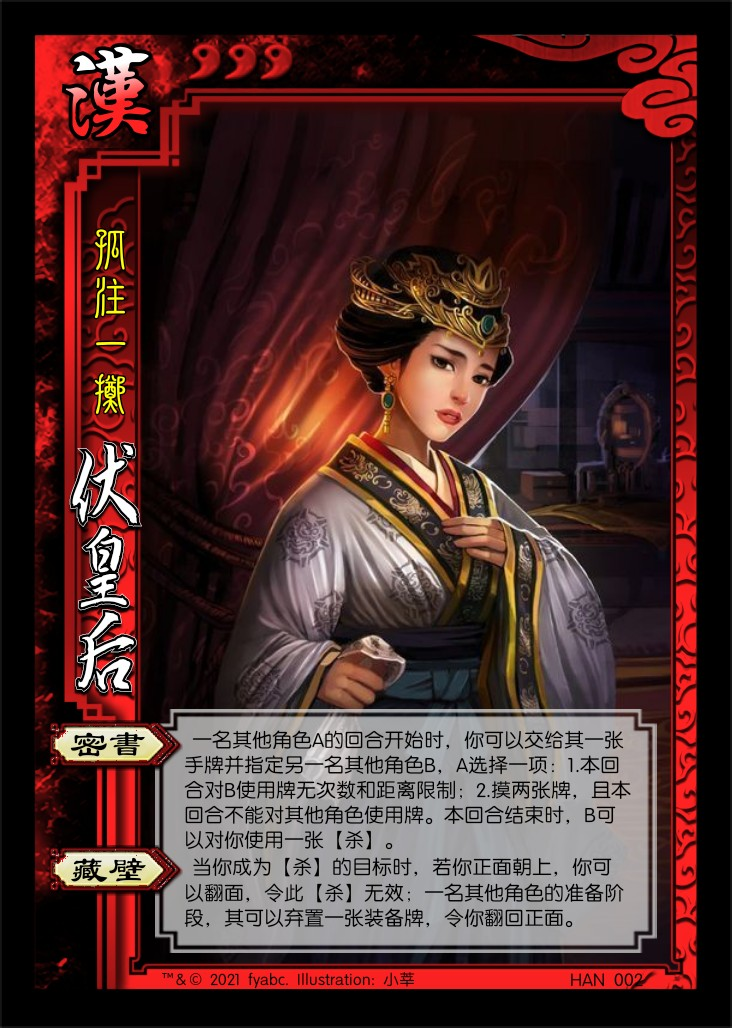
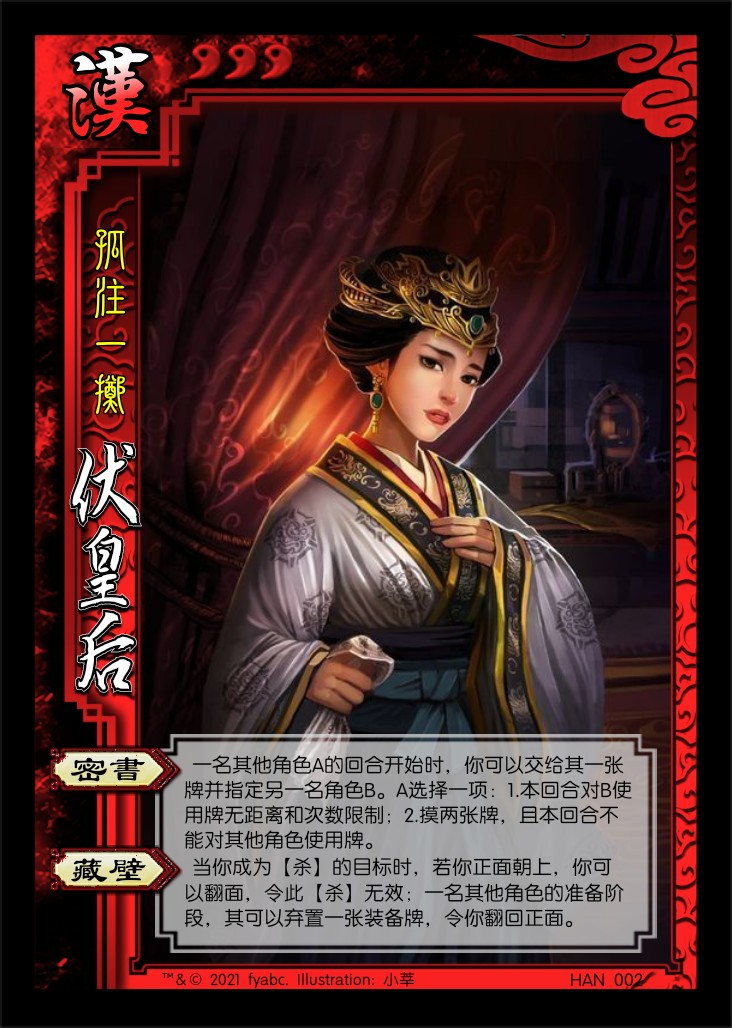
Fix in extensions.

diff --git a/SanGuoSha/SGS-RebirthProject/main.md b/SanGuoSha/SGS-RebirthProject/main.md
@@ -61,21 +61,65 @@
 
 1. 黄巾之乱（184 - 185）
    1. 武将：张宝、张梁、张燕、黄巾雷使、刘宏、张让、皇甫嵩、卢植
-   2. SP武将：刘宏、刘备
-   3. 神武将：张角
+   2. 已出现武将：暂无
+   3. SP武将：刘宏2、刘备2
+   4. 神武将：张角
 2. 董卓入京（189 - 192）
    1. 武将：董卓、李儒、何进、何太后、刘辩、唐姬、王允、蔡邕
-   2. SP武将：貂蝉
-   3. 神武将：貂蝉
+   2. 已出现武将：刘协
+   3. SP武将：貂蝉2
+   4. 神武将：貂蝉
 3. 诸侯讨董（190 - 191）
-   1. 武将：华雄、徐荣、李肃、胡轸、孔融、韩馥、鲍信、桥瑁
-   2. SP武将：袁绍、曹操、孙坚、袁术
-   3. 神武将：吕布
+   1. 武将：华雄、徐荣、李肃、牛辅、孔融、韩馥、鲍信、桥瑁
+   2. 已出现武将：暂无
+   3. SP武将：袁绍2、曹操2、孙坚2、袁术2
+   4. 神武将：吕布
 4. 文和乱武（192 - 195）
-   1. 武将：李傕、郭汜、樊稠、张济、马腾、韩遂、杨奉、董承
-   2. SP武将：刘协
-   3. 神武将：贾诩
-5. TODO
+   1. 武将：李傕、郭汜、樊稠、张济、朱儁、杨彪、杨奉、董承
+   2. 已出现武将：暂无
+   3. SP武将：刘协2
+   4. 神武将：贾诩
+5. 徐州风云（194 - 195）
+6. 江东定基（194 - 200）
+7. 迎驾许都（196）
+8. 宛城之战（197）
+9. 白门楼（198）
+10. 官渡之战（199 - 200）
+11. 统一北方（202 - 207）
+12. 荆州之战（208）
+    1. 武将：TODO
+    2. 已出现武将：暂无
+    3. SP武将：暂无
+    4. 神武将：张飞、赵云
+13. 赤壁之战（208）
+14. 凉州之战（211 - 212）
+15. 逍遥津之战（215）
+16. 汉中之战（215 - 219）
+17. 襄樊之战（219）
+18. 代汉自立（220）
+19. 夷陵之战（221 - 222）
+20. 七擒孟获（225）
+21. 六出祁山（228 - 234）
+22. 石亭之战（228）
+23. 南鲁党争（242 - 250）
+24. 高平陵之变（249）
+25. 淮南三叛（251 - 258）
+26. 玉碎九重（260）
+27. 二士争功（263）
+    1. 武将：邓艾、钟会、诸葛瞻、卫瓘、TODO
+    2. 已出现武将：刘禅、姜维
+    3. SP武将：暂无
+    4. 神武将：暂无
+28. 晋代魏祚（265）
+    1. 武将：司马炎、TODO
+    2. 已出现武将：暂无
+    3. SP武将：暂无
+    4. 神武将：暂无
+29. 重归一统（265 - 280）
+    1. 武将：TODO
+    2. 已出现武将：暂无
+    3. SP武将：暂无
+    4. 神武将：暂无
 
 ## 次要事件扩展包计划
 

diff --git a/SanGuoSha/SGS-RebirthProject/ext3.md b/SanGuoSha/SGS-RebirthProject/ext3.md
@@ -52,7 +52,7 @@
    当一名其他角色于其回合外获得牌时，对其使用。目标角色从获得的牌中选择一张交给你。
 4. 【摧锋夺锐】：锦囊，普通  
    出牌阶段，对一名装备区中牌数比你多的角色使用。将其装备区中的一张牌移动到你的装备区（替换原装备）。
- 
+
    > 补充标准包中减少的拆装备手段。
 5. 【势如破竹】：锦囊，普通  
    出牌阶段，对你的下家使用。其选择一项：受到你造成的1点伤害；或打出一张【闪】，并令其下家再次进行此选择。
@@ -85,17 +85,22 @@
    1. 【搦战】：准备阶段，你可以视为使用一张【决斗】。该【决斗】的结算中，你每次需打出两张【杀】。
    2. 【耀武】：当你杀死一名角色后，你可以回复1点体力或摸一张牌。
 
-2. ![韩馥](./assets/images/heroes/韩馥.jpg) 韩馥 男 群 3体力
-3. ![孔融](./assets/images/heroes/孔融.jpg) 孔融 男 群 3体力
+2. ![徐荣](./assets/images/heroes/徐荣.jpg) 徐荣 男 群 4体力
+3. ![李肃](./assets/images/heroes/李肃.jpg) 李肃 男 群 4体力
+4. ![牛辅](./assets/images/heroes/牛辅.jpg) 牛辅 男 群 4体力
+5. ![孔融](./assets/images/heroes/孔融.jpg) 孔融 男 汉 3体力
    1. 【礼让】：出牌阶段，你可以将一张红桃手牌当援军牌使用；当你于出牌阶段发动第一次支援后，可以摸一张牌。
    2. 【名士】：TODO
+6. ![韩馥](./assets/images/heroes/韩馥.jpg) 韩馥 男 汉 3体力
+7. ![鲍信](./assets/images/heroes/鲍信.jpg) 鲍信 男 汉 3体力
+8. ![桥瑁](./assets/images/heroes/桥瑁.jpg) 桥瑁 男 汉 3体力
 
 ----
 
-1. ![SP袁绍](./assets/images/heroes/SP袁绍.jpg) SP袁绍 男 群 4体力 称号：众望所归
+1. ![SP袁绍](./assets/images/heroes/SP袁绍.jpg) SP袁绍 男 汉 4体力 称号：众望所归
    1. 【会盟】：出牌阶段限一次，你可以令每名其他角色依次交给你一张牌，然后你依次交给这些角色一张牌。
 
-2. ![SP孙坚](./assets/images/heroes/SP孙坚.jpg) SP孙坚 男 群 4体力 称号：江东的猛虎
+2. ![SP孙坚](./assets/images/heroes/SP孙坚.jpg) SP孙坚 男 汉 4体力 称号：江东的猛虎
    1. 【某某】：出牌阶段限一次，你可以将一张黑色手牌当【摧锋夺锐】使用。若你以此法获得了宝物牌，你回复1点体力。
 
 ----

diff --git a/SanGuoSha/SGS-RebirthProject/standard.md b/SanGuoSha/SGS-RebirthProject/standard.md
@@ -310,11 +310,11 @@
    > 所有汉室宗亲（包括前期扩展包中的SP刘备）都拥有【宗室】技能。  
    > TODO：技能描述稍长，如何简化？
 2. ![伏皇后](./assets/images/heroes/伏皇后.jpg) 伏皇后 女 汉 3体力 称号：孤注一掷
-   1. 【密书】：一名其他角色A的回合开始时，你可以交给其一张手牌并指定另一名其他角色B，A选择一项：1.本回合对B使用牌无次数和距离限制；2.摸两张牌，且本回合不能对其他角色使用牌。本回合结束时，B可以对你使用一张【杀】。
+   1. 【密书】：一名其他角色A的回合开始时，你可以交给其一张手牌并指定另一名角色B，A选择一项：1.本回合对B使用牌无次数和距离限制；2.摸两张牌，且本回合不能对其他角色使用牌。
    2. 【藏壁】：当你成为【杀】的目标时，若你正面朝上，你可以翻面，令此【杀】无效；一名其他角色的准备阶段，其可以弃置一张装备牌，令你翻回正面。
 
    > 设计灵感: <https://link.zhihu.com/?target=https%3A//tieba.baidu.com/p/6546955203>.  
-   > 【密书】反映了伏皇后向伏完求援的典故，伏完的反应分为参与密谋和自保两种，最后的负面效果表示计划泄密，曹操进行报复，也与【藏壁】联动。  
+   > 【密书】反映了伏皇后向伏完求援的典故，伏完的反应分为参与密谋和自保两种。  
    > 【藏壁】反映了伏皇后被抓时藏入壁中，向献帝求援而不得的典故。汉献帝往往没有装备牌 让伏皇后翻回正面，表现了汉献帝的爱莫能助。  
    > TODO：技能强度需要测试。  
-   > TODO：技能过于复杂，如何简化？
+   > TODO：技能进行了一次简化，可以再简化吗？

diff --git a/SanGuoSha/SGS-RebirthProject/ext1.md b/SanGuoSha/SGS-RebirthProject/ext1.md
@@ -154,11 +154,11 @@
 
 6. ![张让](./assets/images/heroes/张让.jpg) 张让 男 汉 3体力 称号：窃幸绝禋
    1. 【潜听】：一名其他角色的摸牌阶段开始时，你可以观看牌堆顶的两张牌。若如此做，本回合内，该角色与你的距离视为1。
-   2. 【滔乱】：出牌阶段限两次，你可以声明一种花色，然后令一名其他角色选择是否交给你一张该花色的手牌。若其选择是，你视为使用此牌，且不受次数限制。
+   2. 【滔乱】：出牌阶段限两次，你可以声明一种花色，然后令一名其他角色选择是否交给你一张该花色的非装备牌。若其选择是，你视为使用此牌，且不受次数限制。
 
    > 【潜听】出处：“又张让等使人潜听，具闻其语。 ——《后汉书·窦何列传第五十九》”。  
    > 【滔乱】视为使用的牌仍然存在（可以再使用一次）。  
-   > 若【滔乱】给出的牌为装备或延时锦囊牌，则由于不存在对应的实体牌，“视为使用的”效果不会被触发。  
+   > 若【滔乱】给出的牌为延时锦囊牌，则由于不存在对应的实体牌，“视为使用的”效果不会被触发。  
    > 【滔乱】设计思路与官方类似，表现宦官凭借皇权作威作福的特点。  
    > TODO：需要实际测试强度（初版强度过弱，增强为现版）。
 7. ![皇甫嵩](./assets/images/heroes/皇甫嵩.jpg) 皇甫嵩 男 汉 4体力 称号：志定雪霜

diff --git a/SanGuoSha/SGS-RebirthProject/ext2.md b/SanGuoSha/SGS-RebirthProject/ext2.md
@@ -135,8 +135,8 @@
    1. 【抗歌】：准备阶段，你可以令一名角色获得技能“诀别”直到你的下回合开始。
    2. 【节烈】：当你受到一名男性角色造成的伤害后，你可以与其拼点。若你赢，你回复1点体力；若你没赢，你获得双方的拼点牌。
 
-   > 【诀别】：出牌阶段限一次，你可以将所有手牌（至少两张）当任意一张基本牌使用。  
-   > 【抗歌】可以配合刘辩：用掉多余手牌，或者在【宴别】摸牌后将所有手牌当【杀】使用。
+   > 【诀别】：每回合限一次，你可以将所有手牌（至少两张）当任意一张基本牌使用。  
+   > 【抗歌】可以配合刘辩：用掉多余手牌，或者在【宴别】摸牌后将所有手牌当【杀】使用，或者于回合外防御。
 7. ![王允](./assets/images/heroes/王允.jpg) 王允 男 汉 3体力 称号：忠魂不泯  
    1. 【连计】：出牌阶段限一次，当你对唯一一名其他角色A使用一张【杀】或普通锦囊牌结算完成后，你可以弃置一张牌并指定B，视为A对B使用了此牌。结算完成后，你可以再弃置一张牌并指定C，视为B对C使用了此牌。（你和A, B, C为互异的角色）
    2. 【谋逞】：结束阶段，你可以摸X张牌（X为本回合内造成过伤害的角色数）。

diff --git a/SanGuoSha/SGS-RebirthProject/real-cards.md b/SanGuoSha/SGS-RebirthProject/real-cards.md
@@ -6,4 +6,6 @@
 4. [ ] 扩展2：打印实体牌
 5. [ ] 扩展1：添加SP刘备
 6. [ ] 扩展1：黄巾雷使修复Bug
-7. [ ] 标准：许褚技能改动（版本2）
+7. [ ] 标准：伏皇后微调
+8. [ ] 扩展1：张让技能微调
+9. [ ] 标准：许褚技能改动（版本2）
